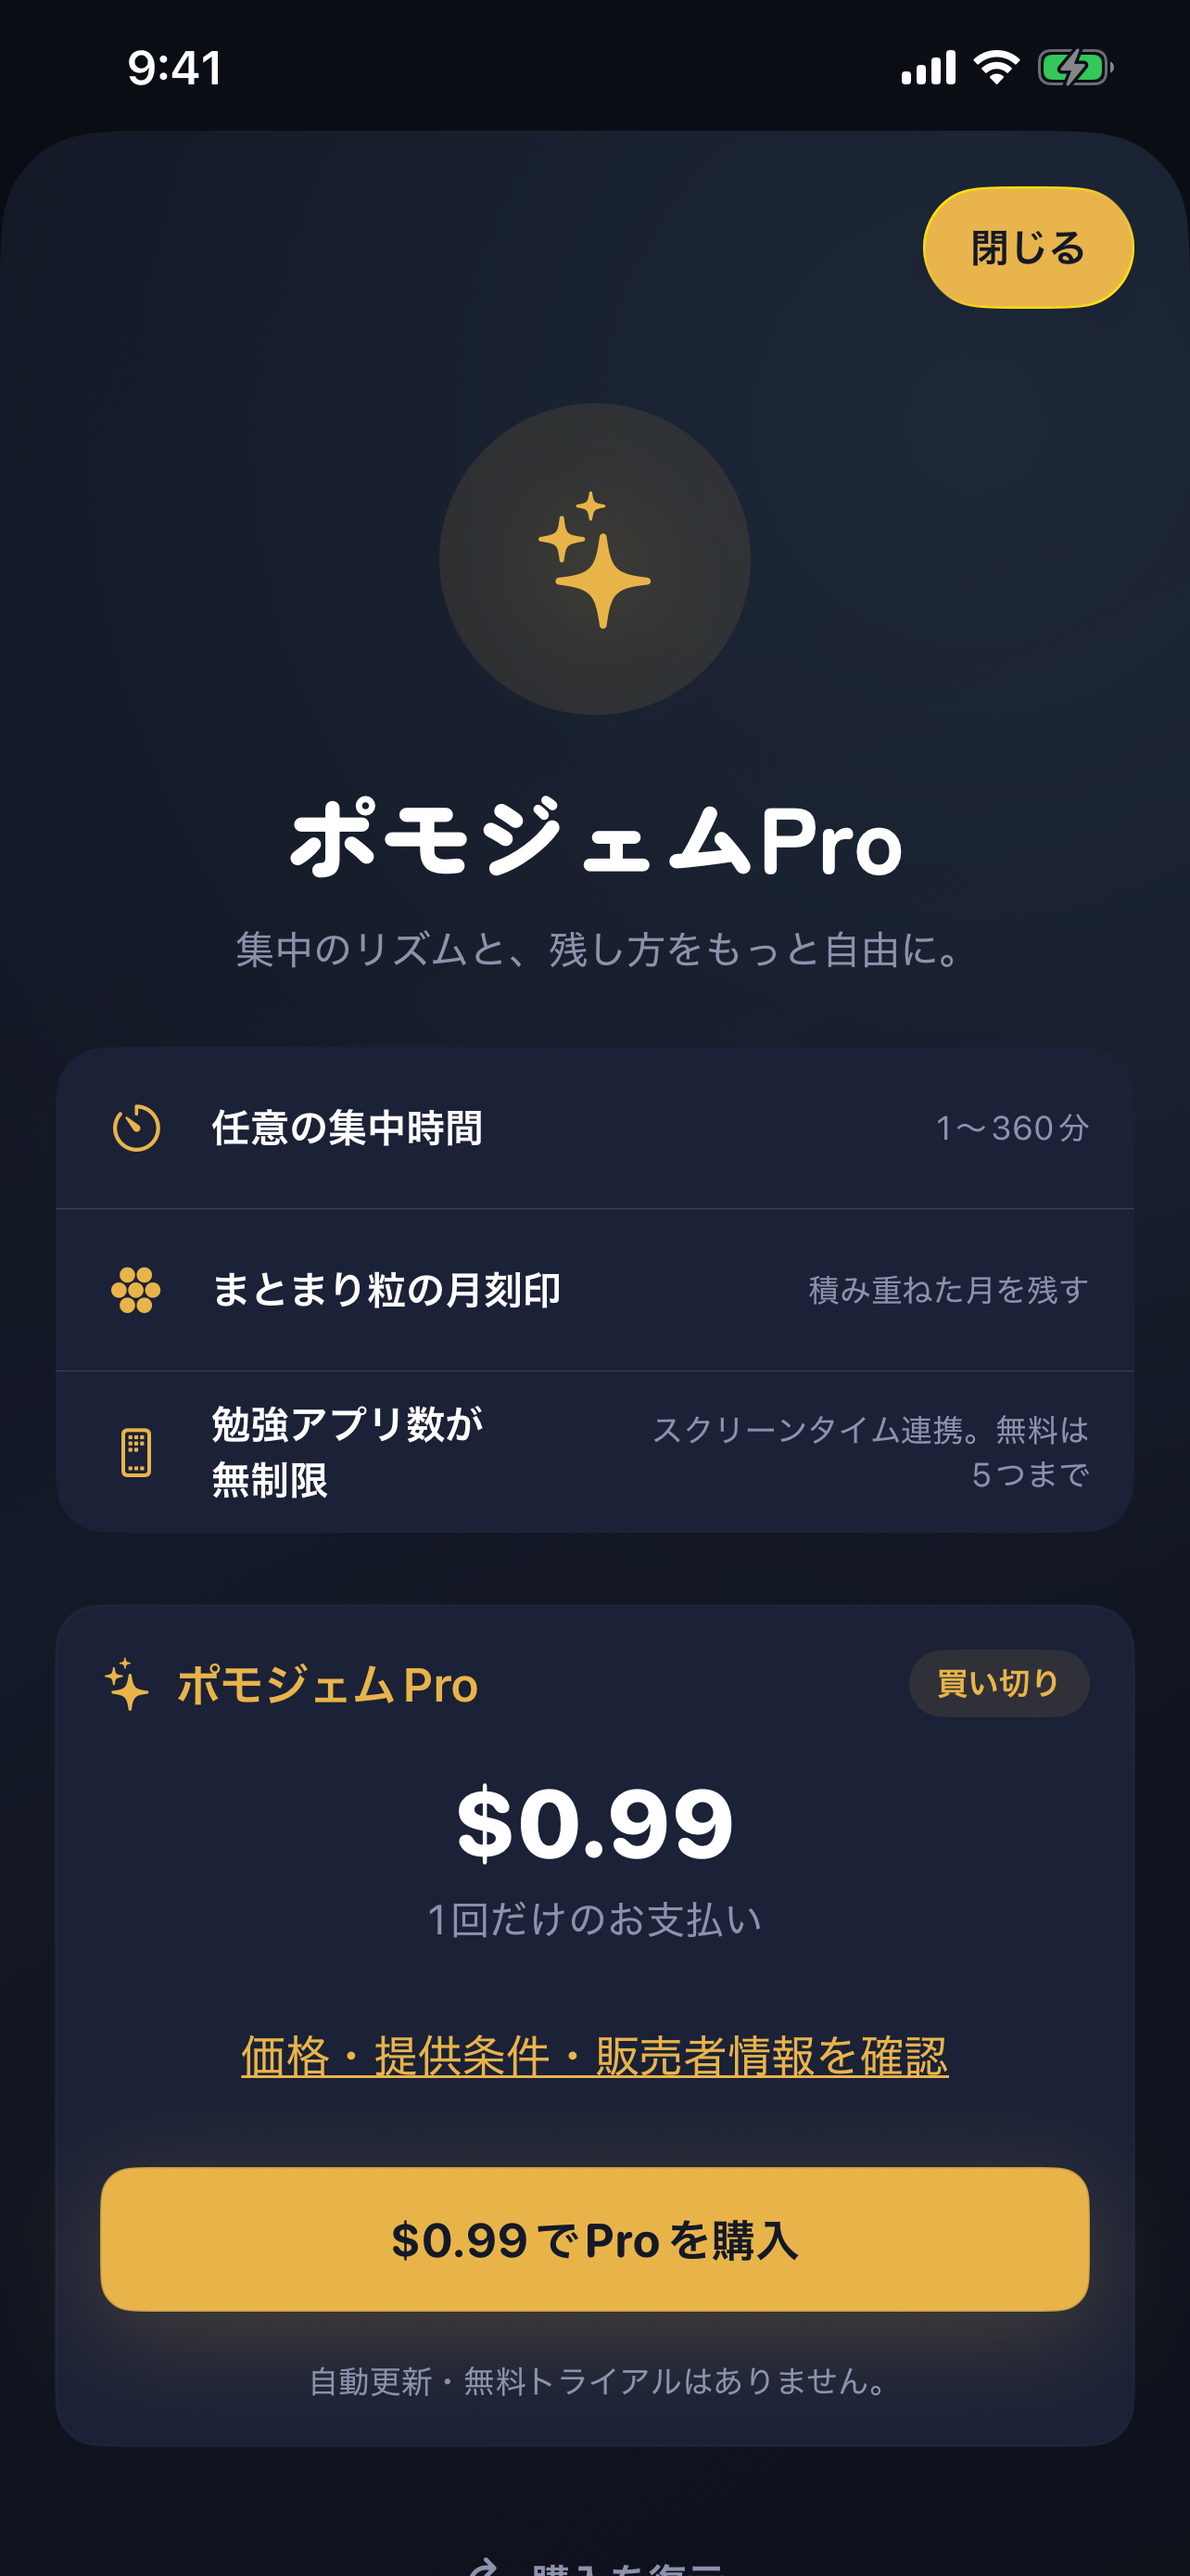
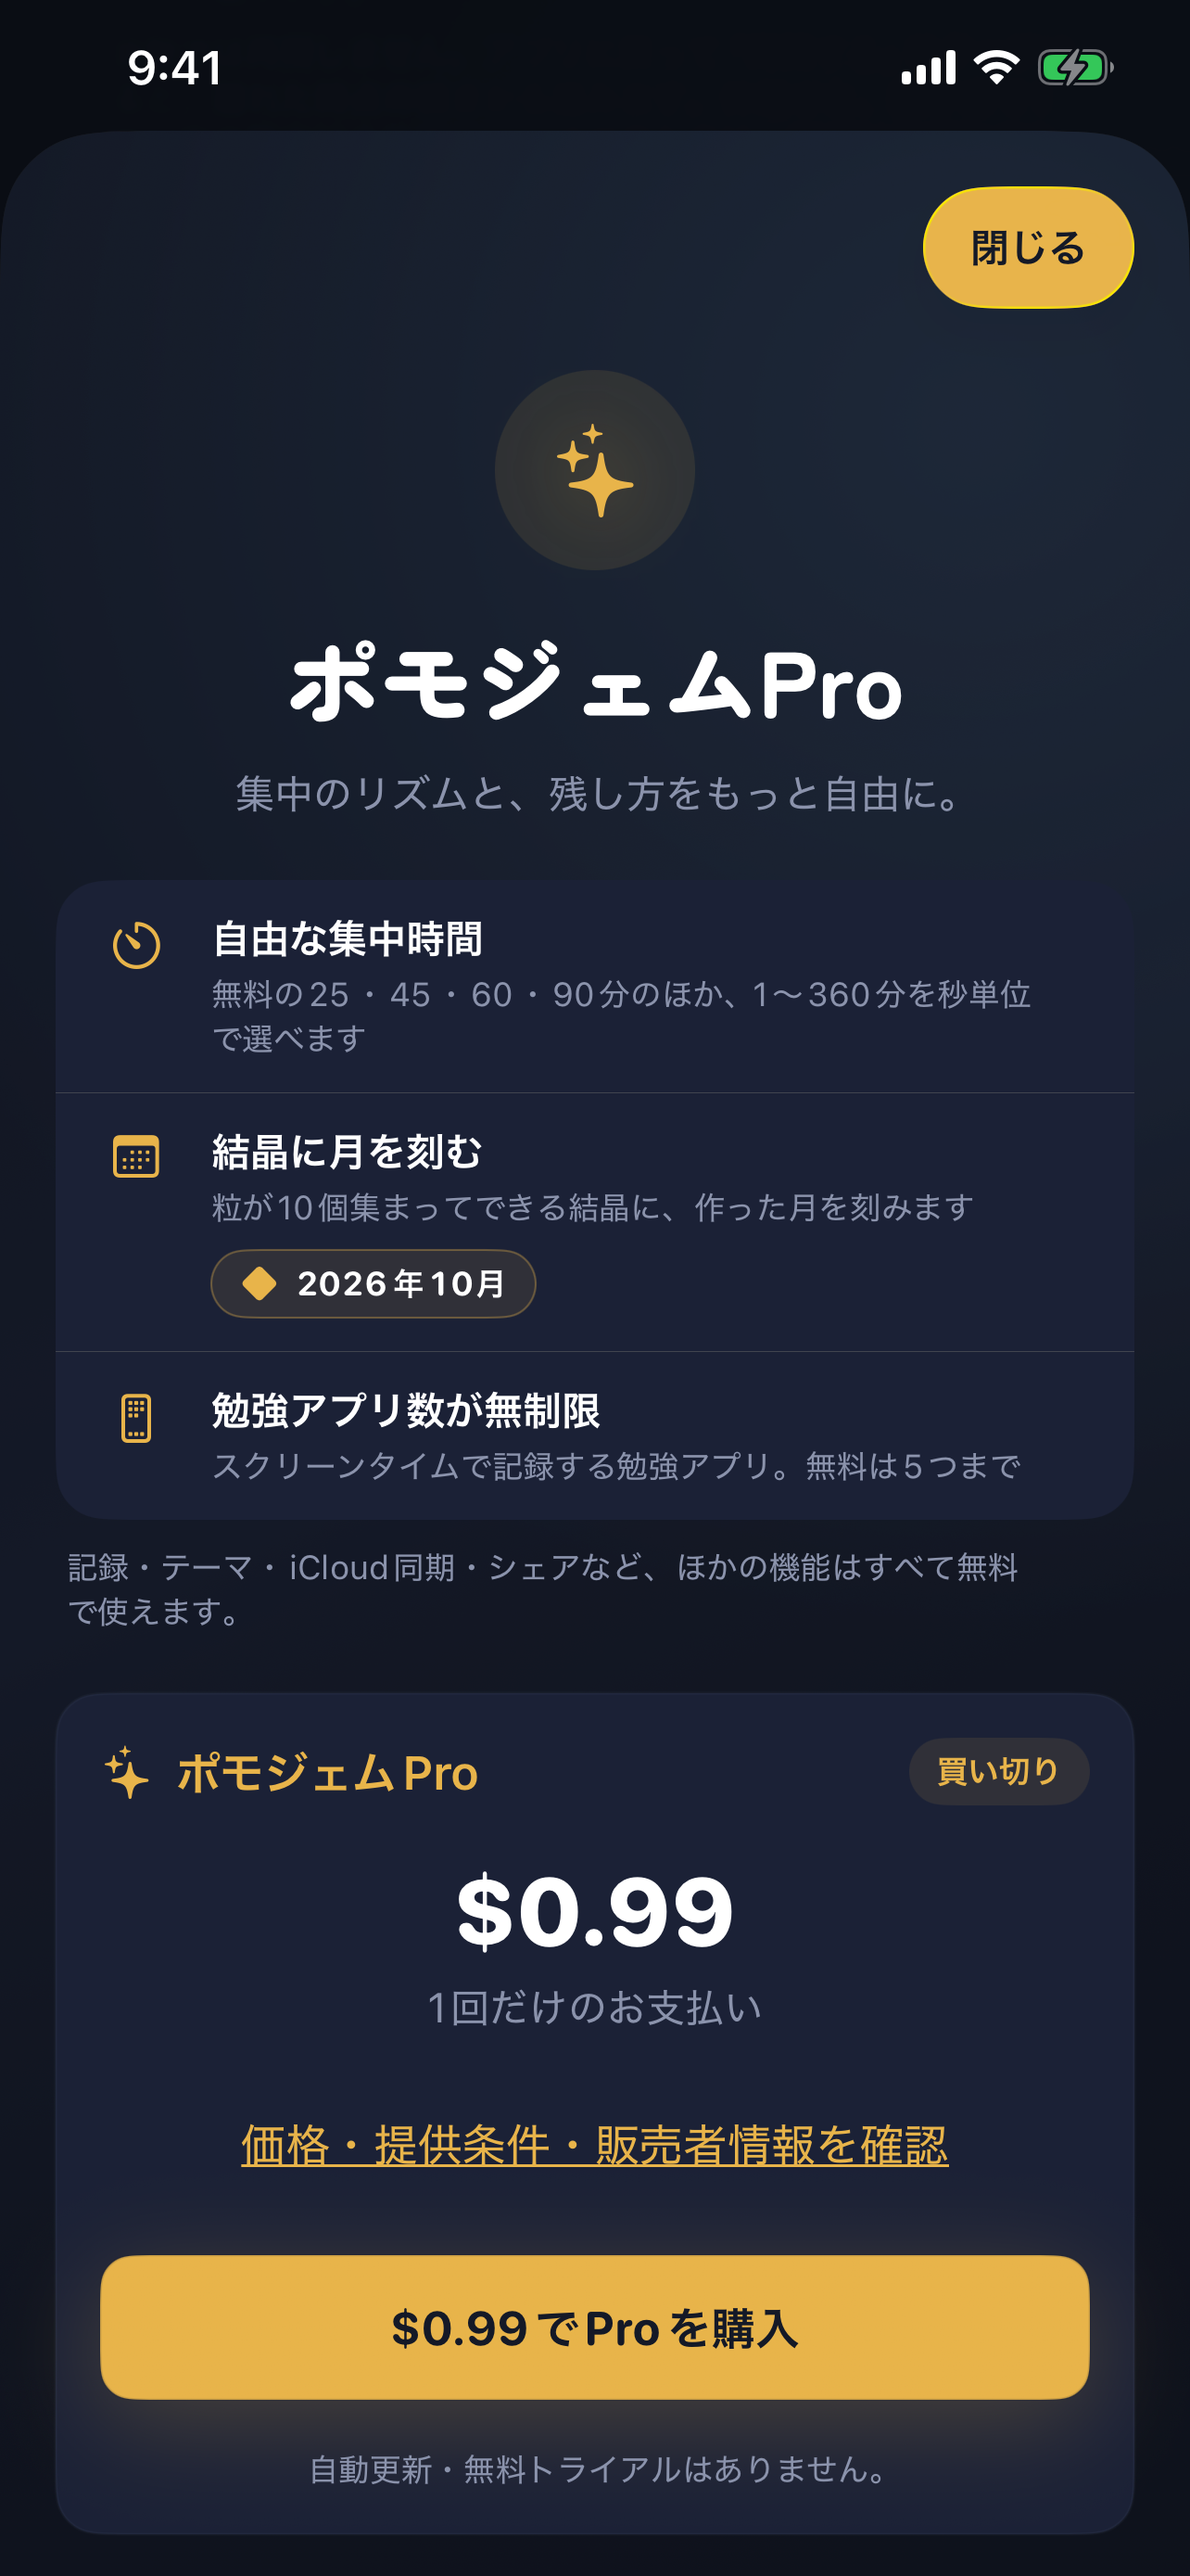
Refresh current IAP App Review screenshot evidence (#75)
* Refresh current IAP review screenshot evidence

* Clarify historical App Store Connect image status

diff --git a/AppStore/release-record-1.1.0-10.md b/AppStore/release-record-1.1.0-10.md
@@ -1,8 +1,27 @@
 # PomoGem 1.1.0 (10) — preparation record
 
-Updated: 2026-09-30. This is a preparation record, not an upload or submission receipt.
+Updated: 2026-10-01. This is a preparation record, not an upload or submission receipt.
 App Store Connect shows the public version as 1.0.2 (9), Ready for Distribution.
 The new 1.1.0 draft is in Prepare for Submission, with no build assigned.
+
+## 2026-10-01 follow-up
+
+- PR #74 merged the final bilingual listing screenshot candidates and release
+  metadata into main at `1c521ed2a90be5aa0c9153611bc6274de8522759`.
+  Its iOS CI run 36733813287 completed successfully, including an unsigned
+  Release build, unit tests, localization and English UI smoke checks. The
+  local Japanese and English screenshot tests also passed.
+- Re-captured the IAP review image from that main revision's current paywall.
+  The focused UI test passed once with no failures or skips, using the real
+  `Product.products` path and no StoreKit configuration file. It displayed
+  `$0.99` and the current three Pro benefits. The storefront country was not
+  verified, and no purchase or restore was attempted. The byte-identical
+  1284 × 2778 image and private test evidence are documented in
+  [screenshots/README.md](screenshots/README.md).
+- The new IAP image is a local candidate. The older image remains in App Store
+  Connect; comparison with the final signed build, replacement and reload
+  confirmation remain open. This capture does not close the signing, device,
+  Sandbox or Japan paid-IAP disclosure gates.
 
 ## 2026-09-30 live submission check
 
@@ -66,8 +85,9 @@ dependency run alone is not a substitute for the final integration run.
 - Integrated iCloud policy/transfer regression run: 72 tests passed, no failures.
 - Distribution profile policy regressions: 27 passed. Metadata, bilingual website,
   generated-project and current-file OSS checks passed during preparation.
-- Screenshot journey and actual StoreKit price capture: two tests passed, no
-  failures/skips; five listing images and one IAP image visually reviewed.
+- The earlier screenshot journey and actual StoreKit price capture: two tests
+  passed, no failures/skips; five listing images and one IAP image were
+  visually reviewed. The IAP image was superseded on 2026-10-01.
   Provenance and integrity hashes are in [screenshots/README.md](screenshots/README.md).
 - PR #24's first integration CI exposed an existing duplicate-history pagination
   bug: tied physical copies could be skipped, allowing an ownership claim despite
@@ -99,16 +119,18 @@ No signing credentials, keys, certificates or profiles are attached here.
 - Saved Japanese and English descriptions, release notes, promotional text,
   keywords and support/marketing links, plus the shared review notes. Main text
   fields were reloaded and compared with the checked-in originals.
-- Replaced the five inherited Japanese listing images with the current captures in
-  order 01–05; after reloading, Connect retained all five in that order. English
-  uses the Japanese set. The separate IAP review image is not a listing image.
+- The earlier Connect draft saved five Japanese listing images in order 01–05;
+  after reloading, Connect retained them. They predate the 2026-09-30 bilingual
+  local candidates and are awaiting replacement. English currently inherits
+  the older Japanese set. The separate IAP review image is not a listing image.
 - Saved both new IAP descriptions as Prepare for Submission revisions alongside
-  the existing approved descriptions. Saved the current IAP review notes and price
-  image; reload matched the notes and retained the new image with all three Pro
-  benefits. The English description is within Connect's 55-character limit.
+  the existing approved descriptions. Saved the IAP review notes and the
+  2026-09-22 price image; reload matched the notes and retained that image with
+  all three Pro benefits. The English description is within Connect's
+  55-character limit.
 - App Information still shows the existing global 4+ age rating.
 - Existing commercial terms, territories, review contact and release settings are
-  retained. No purchase, refund, agreement acceptance or review submission occurred.
+  retained. No purchase, refund or review submission occurred in this preparation.
 
 ## Outstanding submission conditions
 
@@ -125,9 +147,10 @@ No signing credentials, keys, certificates or profiles are attached here.
    development-signed Release audit recorded four delivered callbacks/four recorded
    callbacks after the fix; that partial evidence does not cover untested day,
    account, permission, purchase or distribution-signing boundaries.
-4. Confirm the published Japanese/English privacy policy after the Pages deployment.
-   Connect texts and images are saved, but simulator images still need signed-device
+4. The published Japanese/English privacy policy matched the deployed page on
+   2026-09-30. Connect texts are saved, but simulator images still need signed-device
    parity and the pending IAP localization revisions have not been submitted.
 5. Review all remaining owner decisions and release gates in
    [configuration.yml](configuration.yml) and [submission-checklist.md](submission-checklist.md),
-   then explicitly authorize submission. Preparing a draft does not authorize release.
+   before submission. The user has authorized submission after validation, but
+   authorization does not mark unfinished gates as passed.

diff --git a/AppStore/screenshots/README.md b/AppStore/screenshots/README.md
@@ -17,17 +17,17 @@ transition: the reward card says a 250 g gem was earned while the jar behind
 it still shows 0 g until the card is closed. The optional daily-reminder offer
 was dismissed before capture so its real clock time does not conflict with the
 9:41 status bar override. Review the remaining 0 g transition before
-uploading. The IAP review image remains from 2026-09-22 and needs recapture.
+uploading. The IAP review image was refreshed separately on 2026-10-01.
 These ten images are candidates until compared with the final signed build on
 a physical iPhone; App Store Connect still holds the older Japanese images,
 which its English listing inherits.
 
 ## Original 1.1.0 (10) capture — 2026-09-22
 
-The original five Japanese images and the separate image in `iap-review/` were
+The original five Japanese images and an earlier IAP image were
 captured from PomoGem 1.1.0 (10) on an iOS 26.5 iPhone 12 Pro Max Simulator.
 The original 01–05 files were superseded on 2026-09-30; the IAP review image
-still comes from this capture. All were unretouched XCTest attachments,
+was superseded on 2026-10-01. All were unretouched XCTest attachments,
 copied byte for byte as portrait 1284 × 2778 RGB PNGs without alpha.
 
 Product source was `f3d7f456fdb9b8da05d77d2c4cdb9af4026039f2`; the capture-only
@@ -43,15 +43,11 @@ Both selected tests passed: two tests, zero failures, zero skips. No images
 from the earlier capture attempt are selected; its Settings accessibility-row
 locator was corrected and the complete capture was rerun.
 
-## Remaining IAP image recapture
+## IAP image refresh — 2026-10-01
 
-`iap-review/01-pomogem-pro-live-price.png` shows the paywall before the
-settings-04 changes. The current paywall orders its three Pro features by entry
-point, says what stays free, and shows a month-label example. Recapture the live
-StoreKit price from the final candidate before submission. The obsolete
-`ja-JP/05-iCloud-and-privacy.png` was replaced with a complete Timer Display
-screen because the Simulator's iCloud section showed a diagnostic unavailable
-on a physical device.
+`iap-review/01-pomogem-pro-live-price.png` now shows the paywall after the
+settings-04 changes, with its three current Pro features ordered by entry
+point, what stays free, and a month-label example.
 
 ## Japanese iPhone set
 
@@ -90,10 +86,16 @@ Family Controls distribution approval, device behavior, or upload completion.
 
 Status: `captured_live_price`.
 
-`iap-review/01-pomogem-pro-live-price.png` comes from
-`RuntimeFlowAuditUITests/testCaptureActualStoreKitPrice` in the same passing
-capture run. The actual `Product.products` path returned
+`iap-review/01-pomogem-pro-live-price.png` comes from main
+`1c521ed2a90be5aa0c9153611bc6274de8522759`, captured on 2026-10-01 by
+`RuntimeFlowAuditUITests/testCaptureActualStoreKitPrice` on a disposable
+iOS 26.5 iPhone 12 Pro Max Simulator. The Debug build used version overrides
+1.1.0 (10), standard text size, Japanese UI, local-preview test isolation,
+and a 9:41 status bar. The test passed: one test, zero failures or skips.
+The actual production `Product.products` path returned
 `com.hinoshiba.pomogem.pro.lifetime`, without a StoreKit configuration file.
+The generated xctestrun opted the test runner in with
+`POMOGEM_CAPTURE_LIVE_STOREKIT=1`.
 `Product.displayPrice` was `$0.99`; the purchase control read `$0.99でProを購入`.
 The storefront country was not independently read, so this image establishes
 neither a US storefront nor a Japanese-yen price.
@@ -104,12 +106,14 @@ Purchases starts below the captured viewport. No purchase, restore, or offer
 redemption was invoked. This is price/display evidence, not a purchase or
 restore test.
 
-The original source attachment was `8686D580-F195-471C-B06B-46FBEE628EC6.png`,
-with attachment prefix `IAP_01-pomogem-pro-live-price`. The selected capture
-passed before the explicit live-StoreKit opt-in guard was added to the test;
-the capture path after that guard is unchanged. A focused follow-up on the same
-Simulator verified one intentional skip without the flag and one passing test
-with the flag. Those follow-up runs did not replace any selected image.
+The original source attachment was `82B5D009-430D-45BC-9293-62C5AC9E8C1C.png`,
+with attachment prefix `IAP_01-pomogem-pro-live-price`. It was copied byte for
+byte as a 1284 × 2778 RGB PNG without alpha. The result bundle and attachment
+are retained outside the public repository under
+`~/.codex/release-validation/pomogem-20261001/IAP/`. Its SHA-256 is recorded in
+`checksums.sha256` and `ASSET_LICENSES.md`. This Simulator image still needs
+comparison with the final signed device build; the older image remains in
+App Store Connect until that review and replacement are complete.
 
 ## Reproduce
 

diff --git a/AppStore/README.md b/AppStore/README.md
@@ -30,10 +30,11 @@ Smart App BannerをWebに表示し、`app_store_listing_status: public`としま
 確認しました。現在の掲載文は次の1.1.0 (10)候補用で、1.1.0のdraftは作成済みですがbinaryは未uploadです。
 Family Controlsの配布権限と最終署名済み候補での実到達は未確認で、旧版の提出結果を流用しません。
 
-現在の掲載画像5枚とIAP審査画像は2026-09-22に1.1.0 (10)から撮り直しました。実行結果とhashは
+現在の掲載画像は2026-09-30に日英各5枚、IAP審査画像は2026-10-01に1.1.0 (10)から撮り直しました。実行結果とhashは
 `screenshots/README.md`に記録しています。実StoreKit表示価格は$0.99（storefront国は未確認）で、
 `review_screenshot_status: captured_live_price`です。購入・復元の成功や署名済み実機との表示一致は未確認です。
-旧IAP画像はupload対象外の`history/`に保存しています。現在の準備状態は
+2026-09-22のIAP画像はまだConnectにあり、現行候補への差し替えと再読込確認が残ります。
+2026-09-06の旧IAP画像はupload対象外の`history/`に保存しています。現在の準備状態は
 `release-record-1.1.0-10.md`を参照してください。
 過去のDeveloper Portal確認ではmain／Widget App IDとCloudKit containerの登録・hostへの割当を確認しました。
 この登録はProduction schemaのdeployや配布署名の完了を意味しません。新IDの署名・実機表示・Sandbox・

diff --git a/AppStore/iap-review-notes.md b/AppStore/iap-review-notes.md
@@ -4,14 +4,16 @@ Product: `com.hinoshiba.pomogem.pro.lifetime`
 
 Candidate: 1.1.0 (10). The existing non-consumable gains unlimited learning-app selection.
 
-Current review image (`captured_live_price`, 2026-09-22): `AppStore/screenshots/iap-review/01-pomogem-pro-live-price.png`
+Current local review image (`captured_live_price`, 2026-10-01): `AppStore/screenshots/iap-review/01-pomogem-pro-live-price.png`
 Historical image: `AppStore/screenshots/history/iap-review-20260906.png`
 （1.0 build 5、実際のStoreKit商品価格を表示、購入未実行。候補の新しいPro機能の証拠にはしません。）
 
 The current 1.1.0 (10) Simulator image shows the actual StoreKit `Product.displayPrice`
 `$0.99`, including the unlimited learning-app benefit. The storefront country was not
 independently read; this is not evidence of a US storefront or a Japanese-yen price.
-No purchase or restore was performed. See `screenshots/README.md` for capture provenance.
+No purchase or restore was performed. The 2026-09-22 image remains in App Store Connect
+until the current local candidate is compared with the signed build and uploaded.
+See `screenshots/README.md` for capture provenance.
 
 Type: Non-Consumable
 
